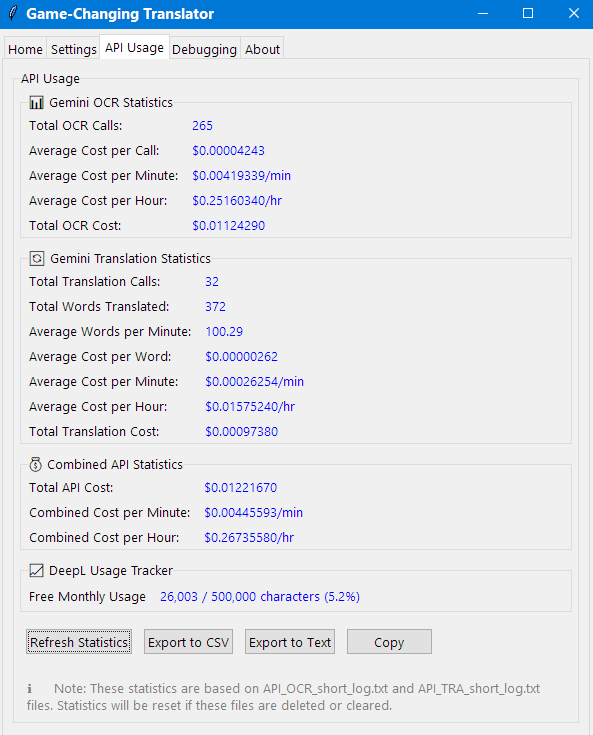
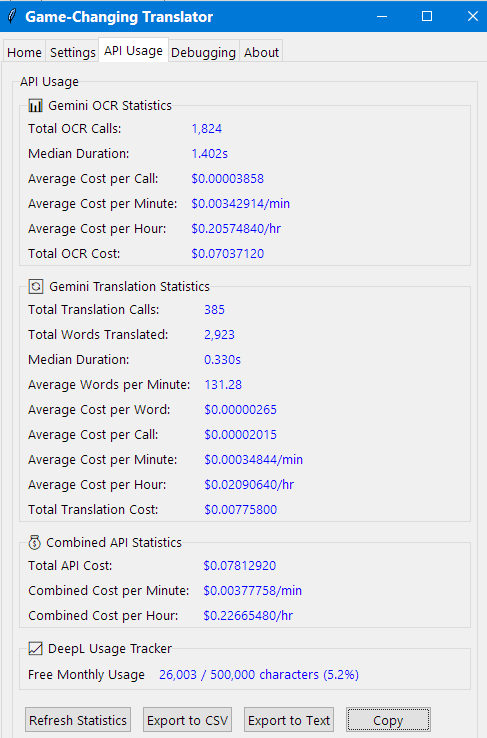
Stats update2

Changed region(s): [[0.0, 0.0, 1.0, 1.0]]

diff --git a/app_logic.py b/app_logic.py
@@ -992,6 +992,31 @@ For more information, see the user manual."""
         """Format cost value according to current UI language (legacy method)."""
         return self.format_currency_for_display(cost_value, " USD" if self.ui_lang.current_lang == 'pol' else "")
 
+    def format_number_with_separators(self, number):
+        """Format integer numbers with thousand separators according to current UI language."""
+        try:
+            # Convert to integer to avoid decimal formatting issues
+            num = int(number)
+            
+            if self.ui_lang.current_lang == 'pol':
+                # Polish format: use space as thousand separator
+                num_str = str(num)
+                if len(num_str) > 3:
+                    formatted = ""
+                    for i, digit in enumerate(reversed(num_str)):
+                        if i > 0 and i % 3 == 0:
+                            formatted = " " + formatted
+                        formatted = digit + formatted
+                    return formatted
+                else:
+                    return num_str
+            else:
+                # English format: use comma as thousand separator
+                return f"{num:,}"
+        except Exception as e:
+            log_debug(f"Error formatting number with separators: {e}")
+            return str(number)  # Fallback to string representation
+
     def update_gemini_stats(self):
         """Update the Gemini statistics fields by reading the log file."""
         try:
@@ -1019,7 +1044,7 @@ For more information, see the user manual."""
             total_cost = total_input_cost + total_output_cost
             
             # Update GUI fields
-            self.gemini_total_words_var.set(str(total_words))
+            self.gemini_total_words_var.set(self.format_number_with_separators(total_words))
             self.gemini_total_cost_var.set(self.format_cost_for_display(total_cost))
             
             log_debug(f"Updated Gemini stats: {total_words} words, ${total_cost:.8f}")
@@ -1027,7 +1052,7 @@ For more information, see the user manual."""
             log_debug(f"Error updating Gemini stats: {e}")
             # Set default values if there's an error
             if hasattr(self, 'gemini_total_words_var') and self.gemini_total_words_var is not None:
-                self.gemini_total_words_var.set("0")
+                self.gemini_total_words_var.set(self.format_number_with_separators(0))
             if hasattr(self, 'gemini_total_cost_var') and self.gemini_total_cost_var is not None:
                 self.gemini_total_cost_var.set(self.format_cost_for_display(0.0))
 
@@ -1110,7 +1135,7 @@ For more information, see the user manual."""
                 ocr = stats['ocr']
                 if hasattr(self, 'ocr_stat_vars'):
                     self.ocr_stat_vars['api_usage_total_ocr_cost'].set(self.format_currency_for_display(ocr['total_cost']))
-                    self.ocr_stat_vars['api_usage_total_ocr_calls'].set(str(ocr['total_calls']))
+                    self.ocr_stat_vars['api_usage_total_ocr_calls'].set(self.format_number_with_separators(ocr['total_calls']))
                     self.ocr_stat_vars['api_usage_median_duration_ocr'].set(
                         f"{ocr['median_duration']:.3f} s".replace('.', ',') if self.ui_lang.current_lang == 'pol' 
                         else f"{ocr['median_duration']:.3f}s"
@@ -1126,8 +1151,8 @@ For more information, see the user manual."""
                 trans = stats['translation']
                 if hasattr(self, 'translation_stat_vars'):
                     self.translation_stat_vars['api_usage_total_translation_cost'].set(self.format_currency_for_display(trans['total_cost']))
-                    self.translation_stat_vars['api_usage_total_words_translated'].set(str(trans['total_words']))
-                    self.translation_stat_vars['api_usage_total_translation_calls'].set(str(trans['total_calls']))
+                    self.translation_stat_vars['api_usage_total_words_translated'].set(self.format_number_with_separators(trans['total_words']))
+                    self.translation_stat_vars['api_usage_total_translation_calls'].set(self.format_number_with_separators(trans['total_calls']))
                     self.translation_stat_vars['api_usage_median_duration_translation'].set(
                         f"{trans['median_duration']:.3f} s".replace('.', ',') if self.ui_lang.current_lang == 'pol' 
                         else f"{trans['median_duration']:.3f}s"
@@ -1177,7 +1202,7 @@ For more information, see the user manual."""
                     clipboard_text += "📊 Statystyki Gemini OCR\n"
                     clipboard_text += "-" * 25 + "\n"
                     ocr = stats['ocr']
-                    clipboard_text += f"Łączne wywołania OCR: {ocr['total_calls']}\n"
+                    clipboard_text += f"Łączne wywołania OCR: {self.format_number_with_separators(ocr['total_calls'])}\n"
                     clipboard_text += f"Mediana czasu trwania: {ocr['median_duration']:.3f} s".replace('.', ',') + "\n"
                     clipboard_text += f"Średni koszt na wywołanie: {self.format_currency_for_display(ocr['avg_cost_per_call'])}\n"
                     clipboard_text += f"Średni koszt na minutę: {self.format_currency_for_display(ocr['avg_cost_per_minute'], '/min')}\n"
@@ -1191,8 +1216,8 @@ For more information, see the user manual."""
                     clipboard_text += "🔄 Statystyki tłumaczenia Gemini\n"
                     clipboard_text += "-" * 30 + "\n"
                     trans = stats['translation']
-                    clipboard_text += f"Łączne wywołania tłumaczenia: {trans['total_calls']}\n"
-                    clipboard_text += f"Łącznie słów przetłumaczonych: {trans['total_words']}\n"
+                    clipboard_text += f"Łączne wywołania tłumaczenia: {self.format_number_with_separators(trans['total_calls'])}\n"
+                    clipboard_text += f"Łącznie słów przetłumaczonych: {self.format_number_with_separators(trans['total_words'])}\n"
                     clipboard_text += f"Mediana czasu trwania: {trans['median_duration']:.3f} s".replace('.', ',') + "\n"
                     wpm_str = f"{trans['words_per_minute']:.2f}".replace('.', ',')
                     clipboard_text += f"Średnia słów na minutę: {wpm_str}\n"
@@ -1232,7 +1257,7 @@ For more information, see the user manual."""
                     clipboard_text += "📊 Gemini OCR Statistics\n"
                     clipboard_text += "-" * 25 + "\n"
                     ocr = stats['ocr']
-                    clipboard_text += f"Total OCR Calls: {ocr['total_calls']}\n"
+                    clipboard_text += f"Total OCR Calls: {self.format_number_with_separators(ocr['total_calls'])}\n"
                     clipboard_text += f"Median Duration: {ocr['median_duration']:.3f}s\n"
                     clipboard_text += f"Average Cost per Call: {self.format_currency_for_display(ocr['avg_cost_per_call'])}\n"
                     clipboard_text += f"Average Cost per Minute: {self.format_currency_for_display(ocr['avg_cost_per_minute'], '/min')}\n"
@@ -1246,8 +1271,8 @@ For more information, see the user manual."""
                     clipboard_text += "🔄 Gemini Translation Statistics\n"
                     clipboard_text += "-" * 30 + "\n"
                     trans = stats['translation']
-                    clipboard_text += f"Total Translation Calls: {trans['total_calls']}\n"
-                    clipboard_text += f"Total Words Translated: {trans['total_words']}\n"
+                    clipboard_text += f"Total Translation Calls: {self.format_number_with_separators(trans['total_calls'])}\n"
+                    clipboard_text += f"Total Words Translated: {self.format_number_with_separators(trans['total_words'])}\n"
                     clipboard_text += f"Median Duration: {trans['median_duration']:.3f}s\n"
                     clipboard_text += f"Average Words per Minute: {trans['words_per_minute']:.2f}\n"
                     clipboard_text += f"Average Cost per Word: {self.format_currency_for_display(trans['avg_cost_per_word'])}\n"

diff --git a/handlers/statistics_handler.py b/handlers/statistics_handler.py
@@ -350,6 +350,31 @@ class StatisticsHandler:
             log_debug(f"Error formatting currency for export: {e}")
             return f"${amount:.8f}"  # Fallback to English format
     
+    def _format_number_with_separators_for_export(self, number, use_polish_format=False):
+        """Format integer numbers with thousand separators for export files."""
+        try:
+            # Convert to integer to avoid decimal formatting issues
+            num = int(number)
+            
+            if use_polish_format:
+                # Polish format: use space as thousand separator
+                num_str = str(num)
+                if len(num_str) > 3:
+                    formatted = ""
+                    for i, digit in enumerate(reversed(num_str)):
+                        if i > 0 and i % 3 == 0:
+                            formatted = " " + formatted
+                        formatted = digit + formatted
+                    return formatted
+                else:
+                    return num_str
+            else:
+                # English format: use comma as thousand separator
+                return f"{num:,}"
+        except Exception as e:
+            log_debug(f"Error formatting number with separators for export: {e}")
+            return str(number)  # Fallback to string representation
+    
     def export_statistics_csv(self, file_path, ui_lang=None, deepl_usage=None):
         """Export statistics to CSV format with proper formatting."""
         try:
@@ -363,7 +388,7 @@ class StatisticsHandler:
                 
                 # OCR statistics - match GUI order with proper cost per hour calculation
                 ocr = stats['ocr']
-                f.write(f"OCR,Total OCR Calls,{ocr['total_calls']}\n")
+                f.write(f"OCR,Total OCR Calls,{self._format_number_with_separators_for_export(ocr['total_calls'], use_polish_format)}\n")
                 # Format duration with proper Polish formatting
                 duration_str = f"{ocr['median_duration']:.3f}s"
                 if use_polish_format:
@@ -379,8 +404,8 @@ class StatisticsHandler:
                 
                 # Translation statistics - match GUI order with proper cost per hour calculation
                 trans = stats['translation']
-                f.write(f"Translation,Total Translation Calls,{trans['total_calls']}\n")
-                f.write(f"Translation,Total Words Translated,{trans['total_words']}\n")
+                f.write(f"Translation,Total Translation Calls,{self._format_number_with_separators_for_export(trans['total_calls'], use_polish_format)}\n")
+                f.write(f"Translation,Total Words Translated,{self._format_number_with_separators_for_export(trans['total_words'], use_polish_format)}\n")
                 # Format duration with proper Polish formatting
                 duration_str = f"{trans['median_duration']:.3f}s"
                 if use_polish_format:
@@ -439,7 +464,7 @@ class StatisticsHandler:
                     f.write("📊 Statystyki Gemini OCR\n")
                     f.write("-" * 25 + "\n")
                     ocr = stats['ocr']
-                    f.write(f"Łączne wywołania OCR: {ocr['total_calls']}\n")
+                    f.write(f"Łączne wywołania OCR: {self._format_number_with_separators_for_export(ocr['total_calls'], use_polish_format)}\n")
                     f.write(f"Mediana czasu trwania: {ocr['median_duration']:.3f} s".replace('.', ',') + "\n")
                     f.write(f"Średni koszt na wywołanie: {self._format_currency_for_export(ocr['avg_cost_per_call'], use_polish_format)}\n")
                     f.write(f"Średni koszt na minutę: {self._format_currency_for_export(ocr['avg_cost_per_minute'], use_polish_format)}/min\n")
@@ -453,8 +478,8 @@ class StatisticsHandler:
                     f.write("🔄 Statystyki tłumaczenia Gemini\n")
                     f.write("-" * 30 + "\n")
                     trans = stats['translation']
-                    f.write(f"Łączne wywołania tłumaczenia: {trans['total_calls']}\n")
-                    f.write(f"Łącznie słów przetłumaczonych: {trans['total_words']}\n")
+                    f.write(f"Łączne wywołania tłumaczenia: {self._format_number_with_separators_for_export(trans['total_calls'], use_polish_format)}\n")
+                    f.write(f"Łącznie słów przetłumaczonych: {self._format_number_with_separators_for_export(trans['total_words'], use_polish_format)}\n")
                     f.write(f"Mediana czasu trwania: {trans['median_duration']:.3f} s".replace('.', ',') + "\n")
                     # Format words per minute with proper decimal separator
                     wpm_str = f"{trans['words_per_minute']:.2f}".replace('.', ',')
@@ -493,7 +518,7 @@ class StatisticsHandler:
                     f.write("📊 Gemini OCR Statistics\n")
                     f.write("-" * 25 + "\n")
                     ocr = stats['ocr']
-                    f.write(f"Total OCR Calls: {ocr['total_calls']}\n")
+                    f.write(f"Total OCR Calls: {self._format_number_with_separators_for_export(ocr['total_calls'], use_polish_format)}\n")
                     f.write(f"Median Duration: {ocr['median_duration']:.3f}s\n")
                     f.write(f"Average Cost per Call: {self._format_currency_for_export(ocr['avg_cost_per_call'], use_polish_format)}\n")
                     f.write(f"Average Cost per Minute: {self._format_currency_for_export(ocr['avg_cost_per_minute'], use_polish_format)}/min\n")
@@ -507,8 +532,8 @@ class StatisticsHandler:
                     f.write("🔄 Gemini Translation Statistics\n")
                     f.write("-" * 30 + "\n")
                     trans = stats['translation']
-                    f.write(f"Total Translation Calls: {trans['total_calls']}\n")
-                    f.write(f"Total Words Translated: {trans['total_words']}\n")
+                    f.write(f"Total Translation Calls: {self._format_number_with_separators_for_export(trans['total_calls'], use_polish_format)}\n")
+                    f.write(f"Total Words Translated: {self._format_number_with_separators_for_export(trans['total_words'], use_polish_format)}\n")
                     f.write(f"Median Duration: {trans['median_duration']:.3f}s\n")
                     f.write(f"Average Words per Minute: {trans['words_per_minute']:.2f}\n")
                     f.write(f"Average Cost per Word: {self._format_currency_for_export(trans['avg_cost_per_word'], use_polish_format)}\n")
